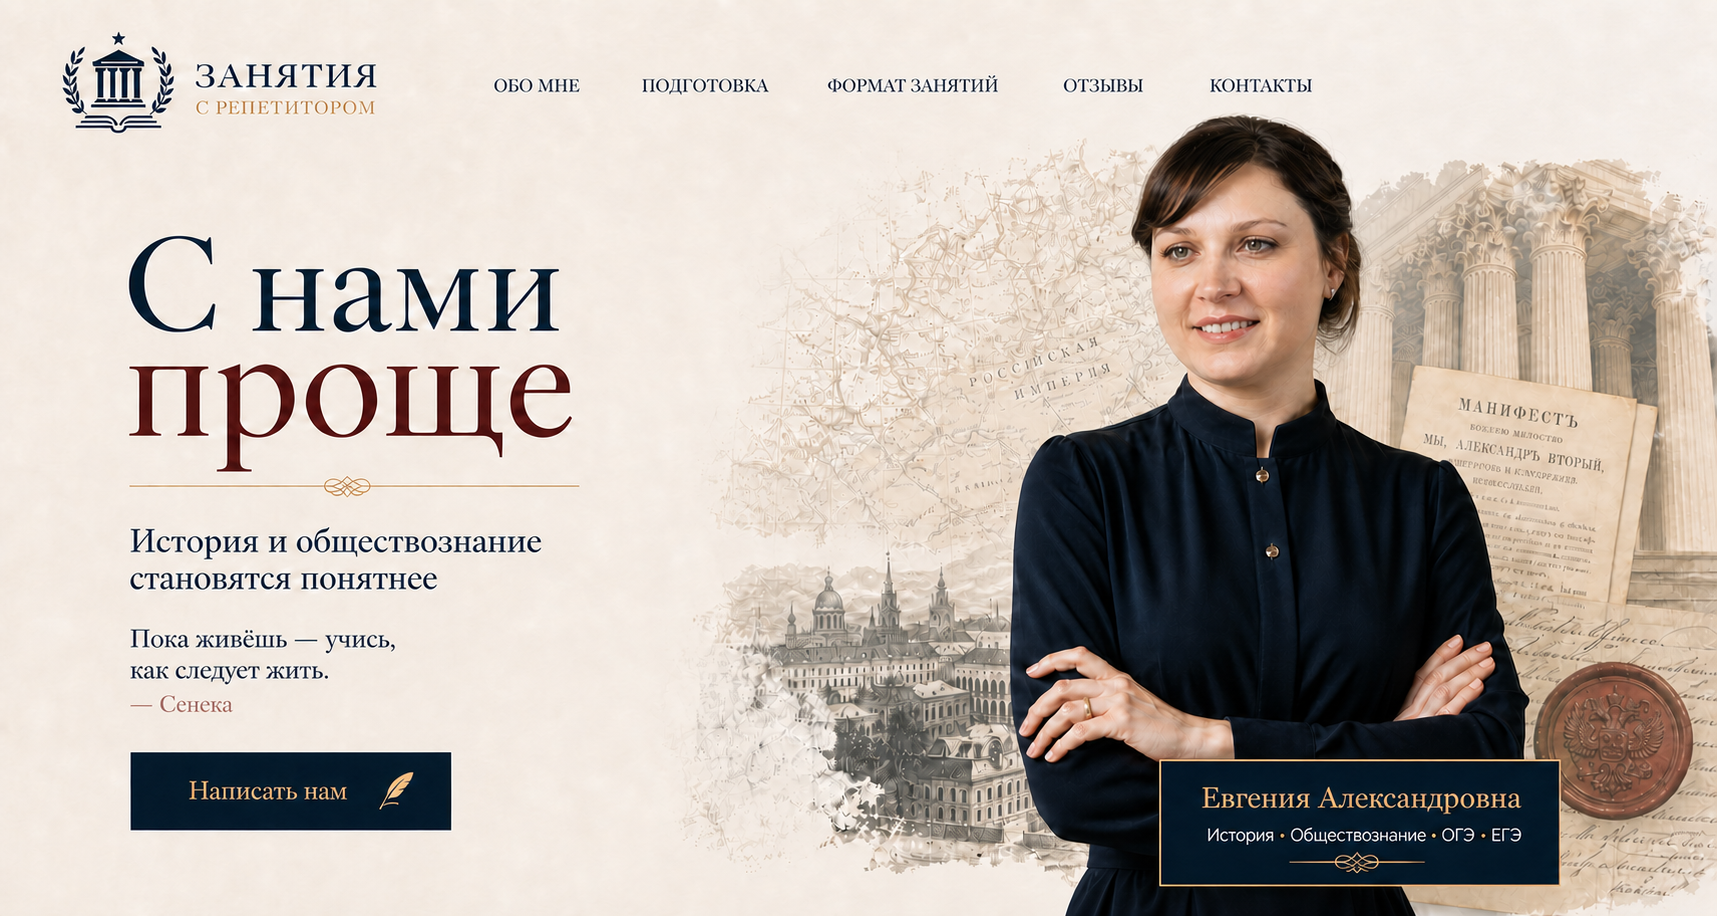
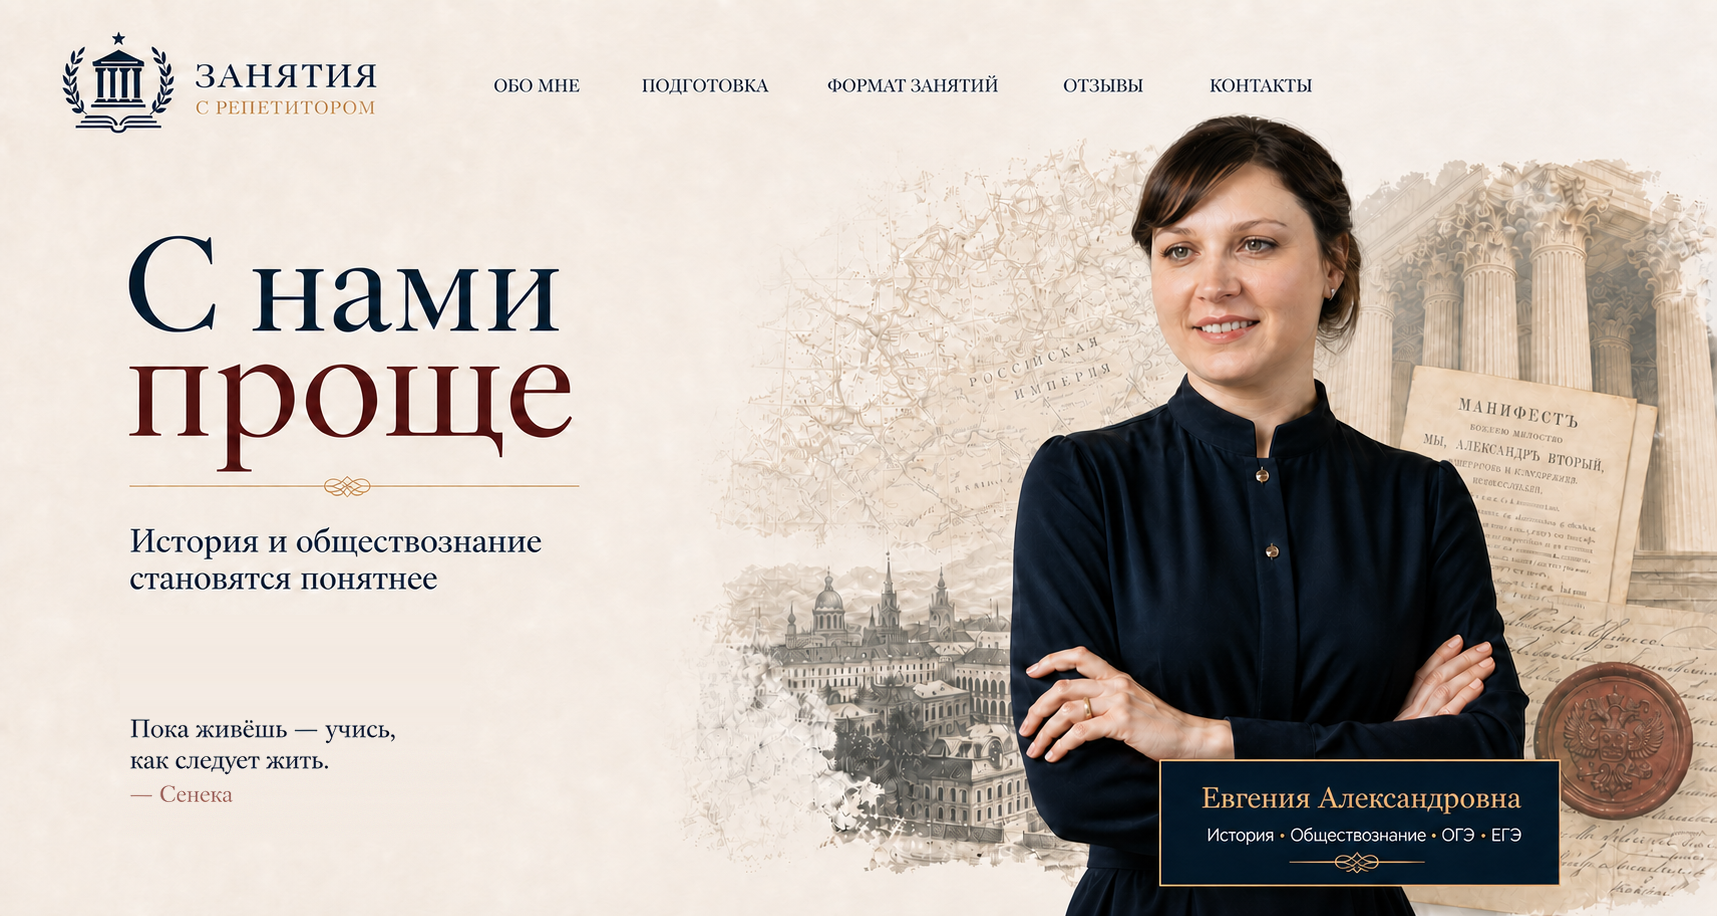
Обновление обложки главной страницы

Changed region(s): [[0.0617, 0.6725, 0.2778, 0.917]]

diff --git a/index.html b/index.html
@@ -79,15 +79,6 @@
           >
             <span>Методички</span>
           </a>
-          <a
-            class="hotspot hotspot--telegram"
-            href="https://t.me/obshestvohistory257?direct"
-            target="_blank"
-            rel="noopener noreferrer"
-            aria-label="Написать нам в Telegram (откроется в новой вкладке)"
-          >
-            Написать нам
-          </a>
         </nav>
       </section>
 

diff --git a/styles.css b/styles.css
@@ -100,8 +100,6 @@ a {
 .hotspot--format { left: 46.8%; top: 6%; width: 12.6%; height: 6%; }
 .hotspot--reviews { left: 60.6%; top: 6%; width: 8.2%; height: 6%; }
 .hotspot--contacts { left: 69.7%; top: 6%; width: 8.8%; height: 6%; }
-.hotspot--telegram { left: 7.55%; top: 82%; width: 18.85%; height: 9%; }
-.hotspot--telegram:hover { transform: translateY(-2px); }
 
 .hero__guides {
   position: absolute;
